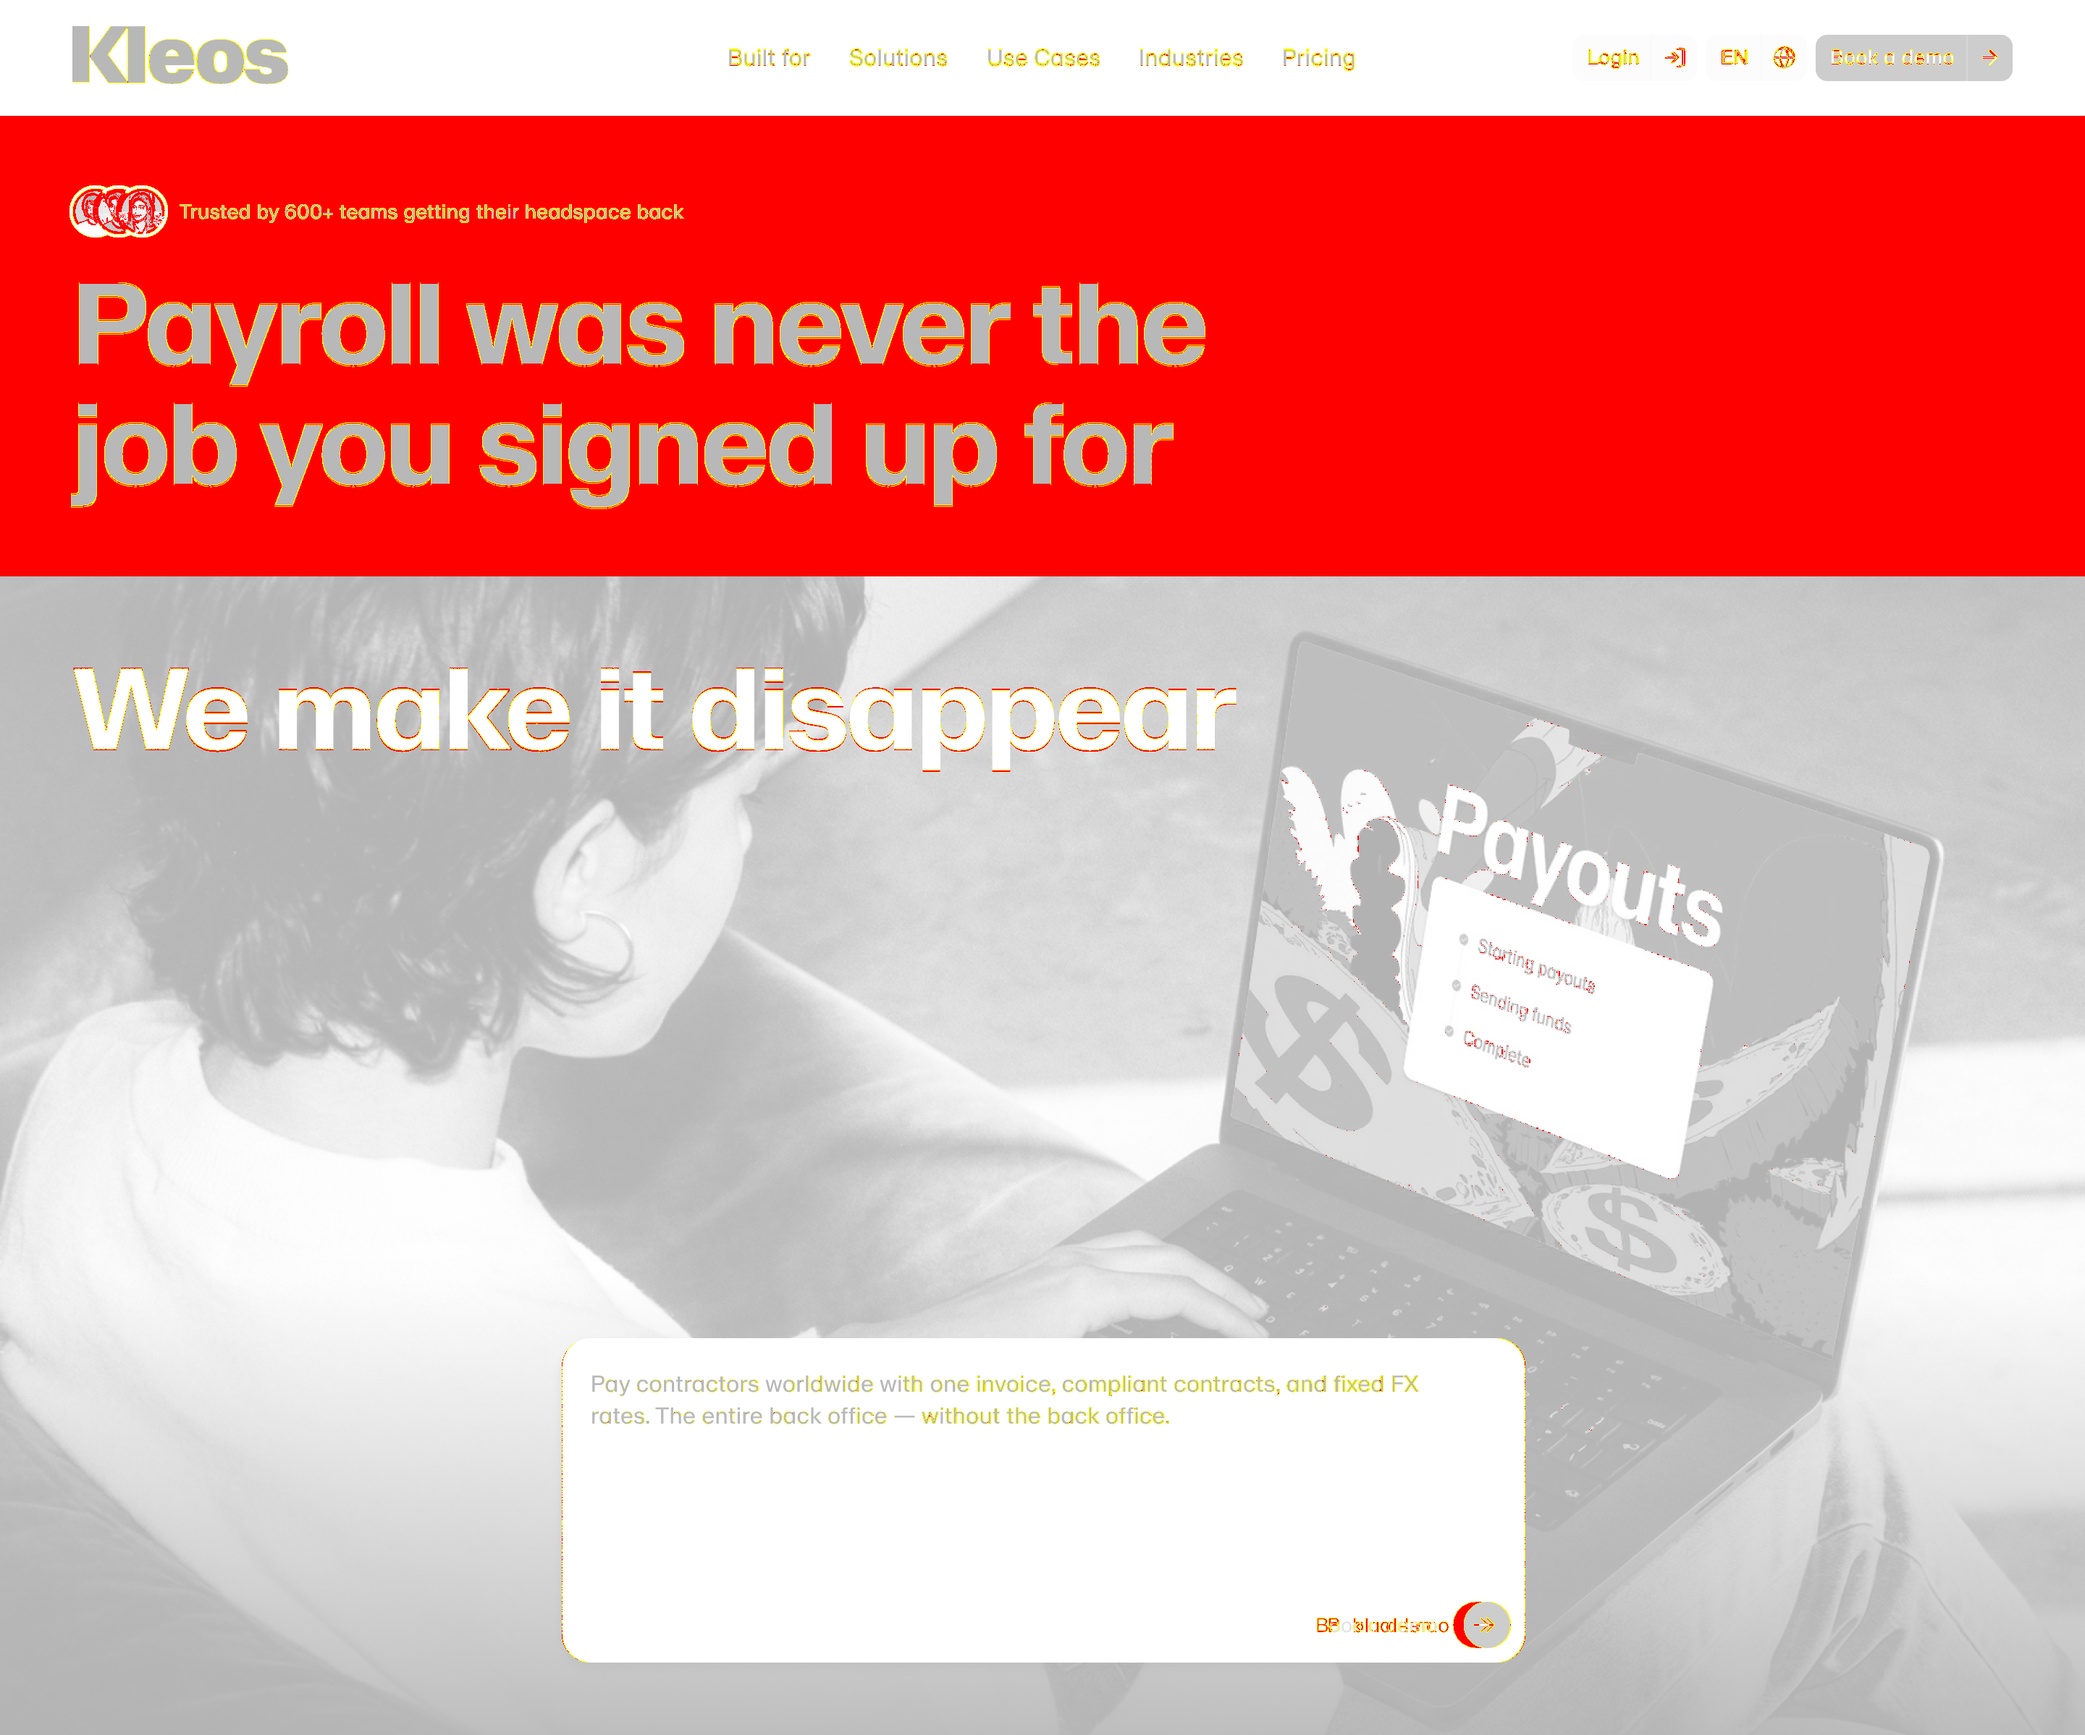
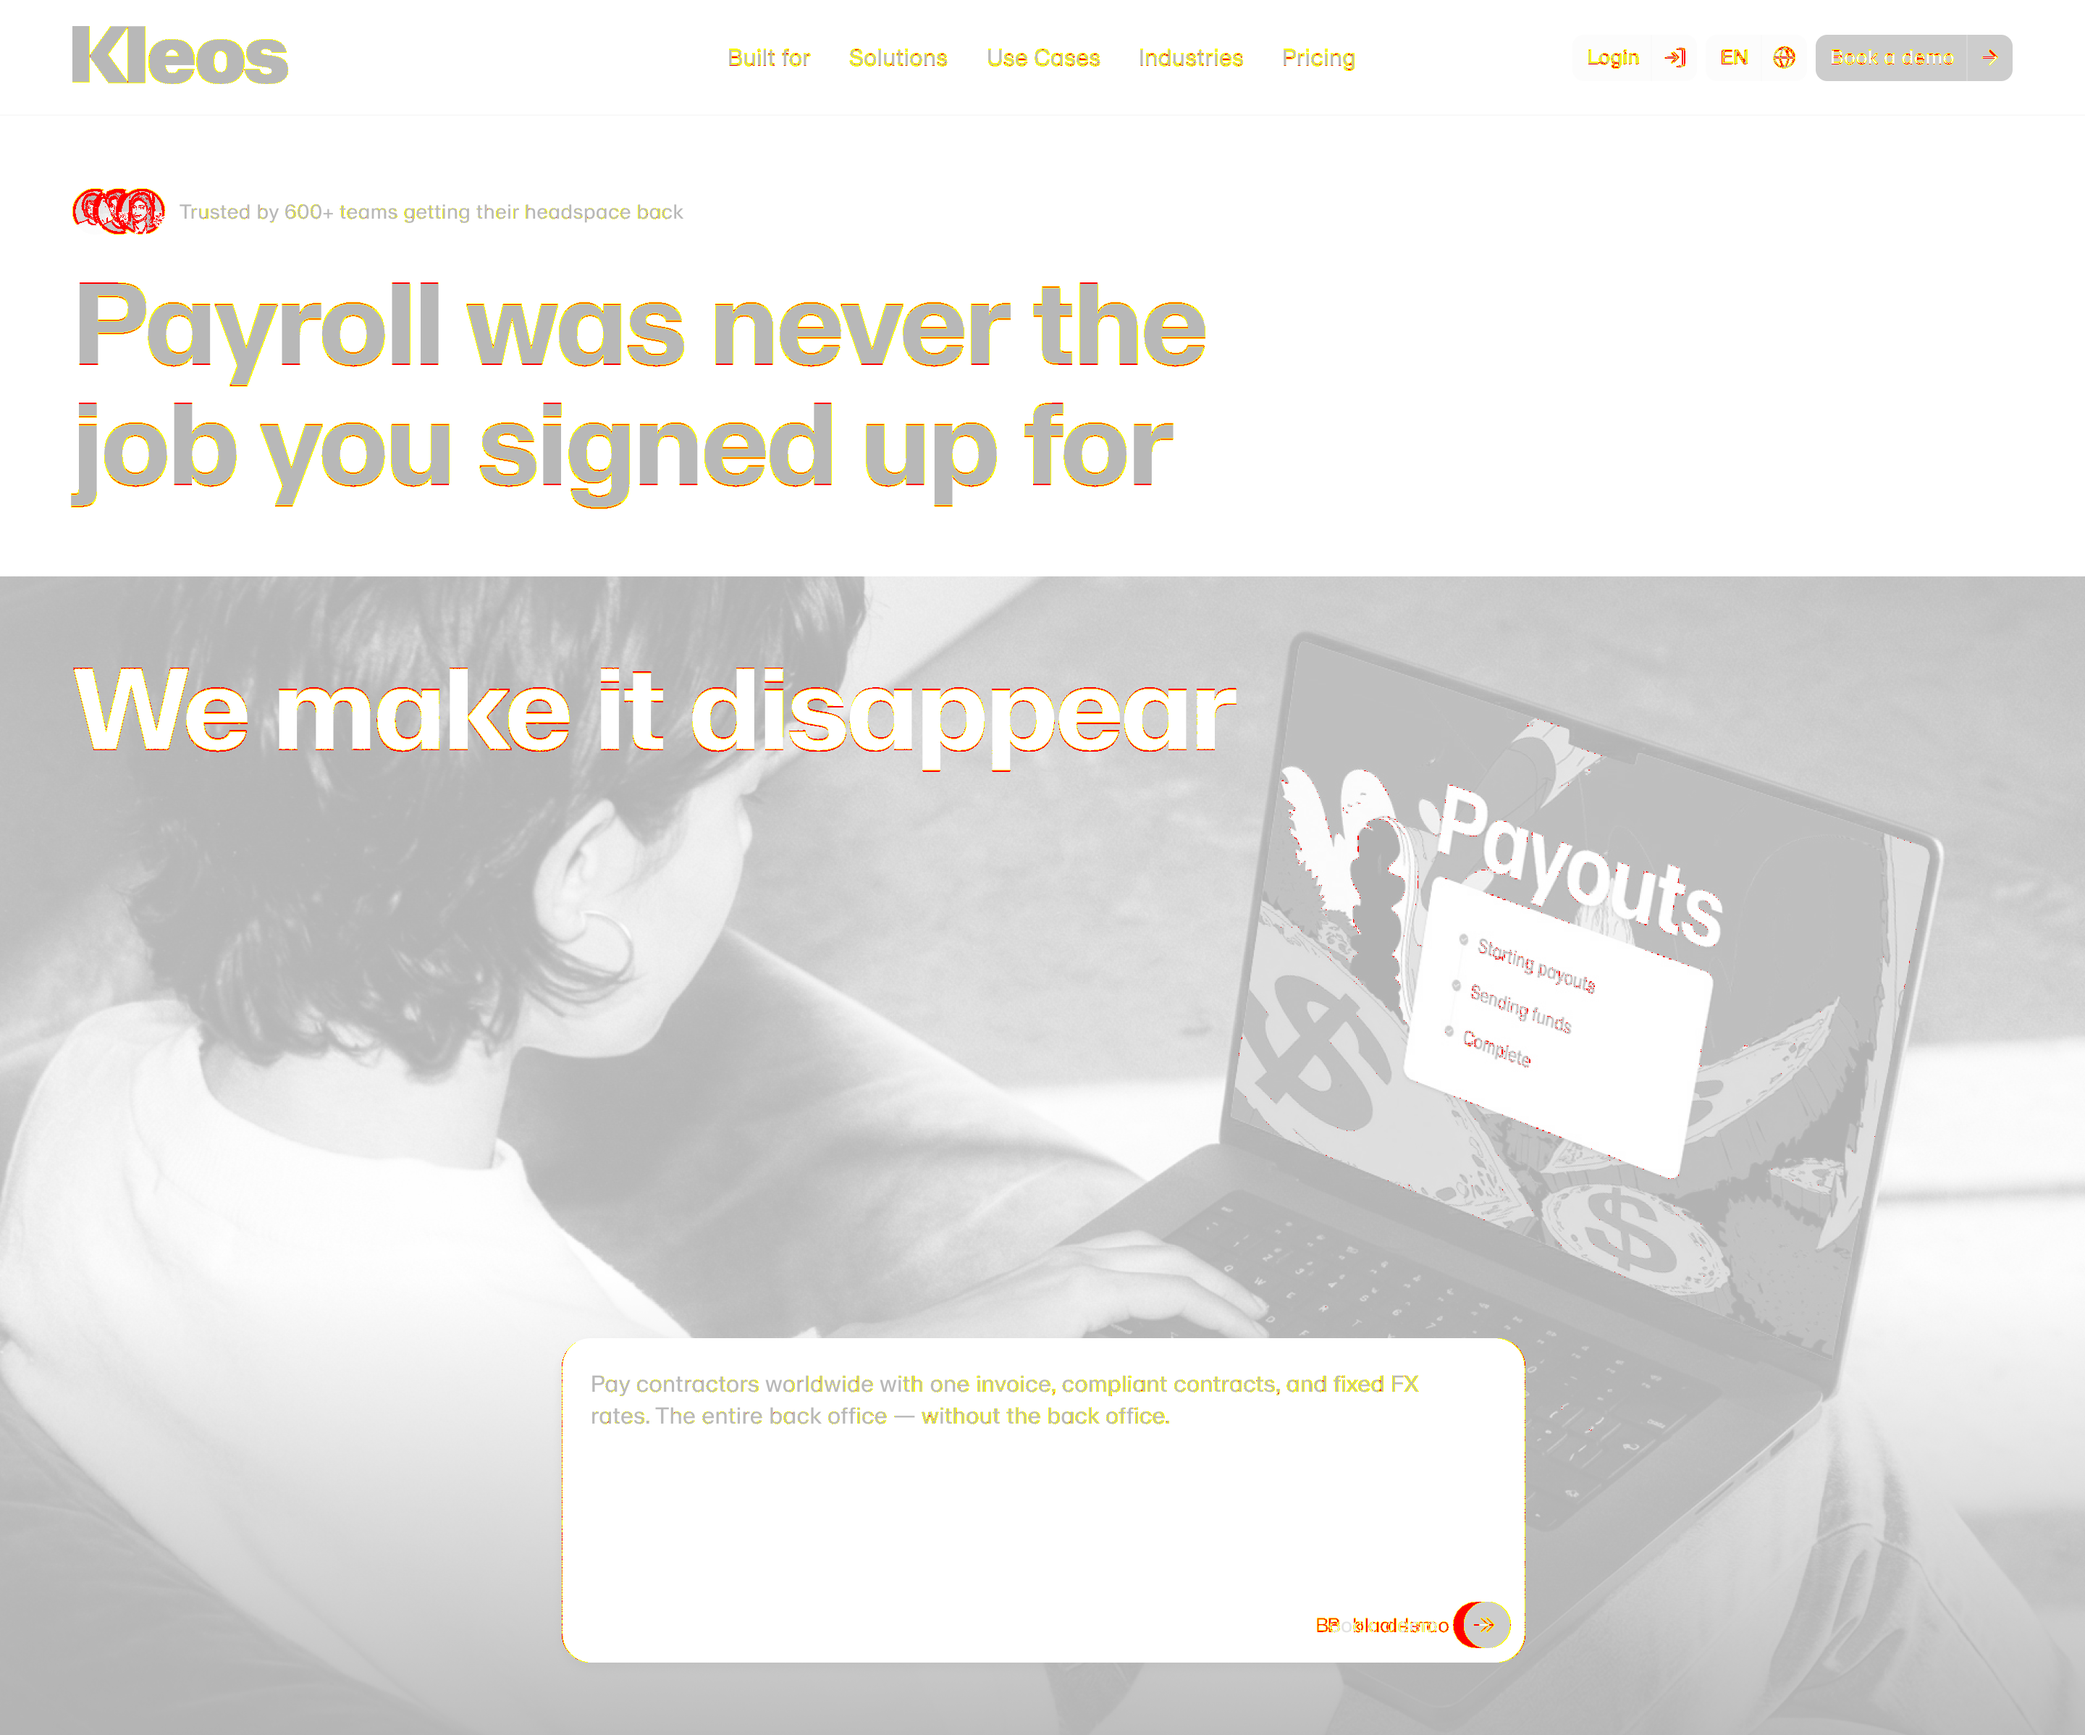
verify: skip unmounted sections + hero passes 0.30% after composite fix
- node-map.json: 10 unmounted sections flagged skip:true with reason
- verify-pixel-perfect.mjs skip-short-circuit already in place (prior commit)
- hero: 24.20% → 0.30% ✅ after Figma PNG composite-on-white patch
- metrics-band/pain-scenarios: now real signal (33% / 30%), no longer transparency noise
- LEARNINGS: 2 entries on Figma transparency + "black container" misread

Changed region(s): [[0.0, 0.0618, 1.0, 0.3397]]

diff --git a/.project-journal/STATE.md b/.project-journal/STATE.md
@@ -1,7 +1,7 @@
 # Stape Website — Current State
 
 **Last updated:** 2026-04-14
-**Status:** v2 pixel-perfect rebuild in progress (3/13 sections extracted, 0/13 verification-pass)
+**Status:** v2 pixel-perfect rebuild in progress (3/13 sections extracted, 1/3 mounted passes — hero ✅)
 **Client/Context:** Stape (global work infrastructure / contractor payroll platform). Website redesign.
 
 ## Current Focus — v2 pixel-perfect rebuild
@@ -21,18 +21,21 @@ Full rebuild of the v2 homepage from Figma (`DycBk4R0tH1h3XH1F2xifX`, node 310:8
 Extracted + converted: hero (310:1660), metrics-band (310:841), pain-scenarios (310:872).
 Remaining 10: tuesday-comparison, how-it-works, legal-architecture, testimonial, comparison-table, role-selector, cost-comparison, faq, final-cta, footer.
 
-### Verification (2026-04-14 run)
-- **hero:** 24.20% diff ❌ (bbox-crop mode, root is `contents`)
-- **metrics-band:** 36.55% diff ❌ (bbox-crop mode)
-- **pain-scenarios:** 30.12% diff ❌ (selector mode, has own box)
-- 10 remaining sections: 💥 bitblt out-of-image (expected — not yet mounted in page.tsx)
+### Verification (2026-04-14 second run — after verifier patches)
+- **hero:** 0.30% diff ✅ (bbox-crop)
+- **metrics-band:** 33.05% diff ❌ (bbox-crop)
+- **pain-scenarios:** 30.12% diff ❌ (selector)
+- 10 remaining: ⏭ skipped (`skip:true` in node-map.json with reason "not yet mounted in app/v2/page.tsx") — verifier now short-circuits instead of crashing with `bitblt reading outside image`.
 
-All 3 above threshold. Artifacts: `web-output/stape-v2/sections/<name>/{figma,preview,diff}.png`.
+### Verifier changes this session
+1. `verify-pixel-perfect.mjs` composites Figma PNG onto white before pixelmatch. Figma `/v1/images` renders GROUP/FRAME with transparent alpha outside drawn content; preview is opaque white → false diff proportional to empty space. Hero fake-red dropped 24.20% → 0.30% with this single change.
+2. `verify-pixel-perfect.mjs` honours `section.skip` in node-map.json — prints `⏭ skipped`, counts as pass, no image-crop attempt.
+3. `web-output/stape-v2/node-map.json` — 10 unmounted sections flagged `skip:true` with `skipReason`.
 
 ## Open Issues (v2)
-1. **3/3 mounted sections fail 3% threshold.** Root cause not yet diagnosed — likely font-loading (ABC Schengen), asset scaling (Figma @2x vs preview dpr=2), or remaining Tailwind class mismatches. Next session: open the diff.png per section, identify which pixel regions diverge, trace back to source classes.
-2. **Hero root uses `display:contents`** — preview element screenshot impossible, bbox-crop fallback works but is less precise. Consider wrapping generated `contents` roots in `relative w-full h-[Npx]` in the pipeline.
-3. **10 unextracted sections** — need `get_design_context` pass each (Gate 1).
+1. **metrics-band 33%, pain-scenarios 30%** — now real signal (not transparency). Not yet diagnosed. Next session: inspect diff.png per section for localized red clusters, pattern likely same class as earlier hero mis-diagnosis (verify assumptions via raw alpha first).
+2. **Hero root uses `display:contents`** — preview element screenshot impossible, bbox-crop fallback works. Consider wrapping generated `contents` roots in `relative w-full h-[Npx]` in the pipeline.
+3. **10 unmounted sections** — skipped in verifier. Keep skipped until each is mounted AND verified <10% one-by-one to avoid accumulating undebuggable debt.
 
 ## Other (parked)
 - About Us v2 content draft (2026-04-08). Subline still too long (5 lines), pending client review on values / services sections.

diff --git a/.project-journal/LEARNINGS.md b/.project-journal/LEARNINGS.md
@@ -20,6 +20,18 @@
 - **Fix:** `app/v2/page.tsx` is now flow-stack — each section wrapped in a `relative` div sized to the Figma `bbox.height`. No top-[Npx] at page level.
 - **Rule:** Sections stack via flow. Absolute coords are a section-internal affair only. If a generator emits a child with `top-[1298px]` (homepage Y instead of section-local), that's a generator bug — patch the generator, don't patch page.tsx.
 
+### [LEARN] Figma image export is transparent outside drawn content — composite before diff
+- **What happened:** verify-pixel-perfect reported hero=24.2%, metrics-band=36.5%, pain-scenarios=30.1%. diff.png showed what looked like a solid "black/red upper container" on hero — I initially hypothesized a missing dark wrapper in Hero.tsx. Checked source.raw.jsx, figma-process-section.mjs, and Figma REST tree — none of them had a dark wrapper. Figma's `section/hero` GROUP has `backgroundColor: rgba(0,0,0,0)` (transparent). Pixel sampling of `figma.png` showed `(0,0,0,0)` in empty zones.
+- **Why:** Figma `/v1/images` endpoint renders only the node's own painted pixels. A GROUP/FRAME with no fill emits alpha=0 outside drawn content. The page-level white background (homepage frame `310:840` has white fill) never makes it into the per-section PNG. Preview screenshot is opaque white everywhere. pixelmatch sees `(0,0,0,0)` vs `(255,255,255,255)` as full mismatch → false positives proportional to empty space in the section.
+- **Fix:** `scripts/verify-pixel-perfect.mjs` now composites figma.png onto white (`WHITE.r/g/b * (1-alpha) + pixel * alpha`, alpha→255) before pixelmatch. Hero diff dropped 24.20% → 0.30% ✅ one commit. Metrics-band and pain-scenarios diffs are now real signal (33% / 30%) — not transparency noise.
+- **Rule:** Any Figma→web diff pipeline must composite the Figma export onto the page-frame's own background before pixelmatch. For pipelines across files, read the homepage/root frame's fills from Figma REST and use that color; white is a pragmatic default when homepage is known white.
+
+### [ERROR] "Black container" in diff.png was transparency — misread as design element
+- **What happened:** Looking at `sections/hero/figma.png`, I described "верхняя зона на чёрном фоне, H1 белый" and built a hypothesis around a missing dark wrapper in generated Hero.tsx. Pursued that root for several steps before checking the actual pixel alpha.
+- **Why:** PNG viewers (including the chat image renderer) fill alpha=0 with black. A transparent region looks identical to a black-filled region visually. I reasoned about layout from the rendered image, not from RGBA values.
+- **Fix:** Before any conclusion about Figma-vs-preview layout from a diff image, sample raw alpha channel of figma.png in suspect regions. If `alpha=0`, you're looking at transparency, not design. Only then look at RGB.
+- **Rule:** diff.png and figma.png are RGBA. Never infer design intent from a screenshot viewer's rendering of transparency. Python `PIL.Image.open(path).load()[x,y]` or equivalent is cheap — run it before posting a diagnosis.
+
 ### [LEARN] `display:contents` roots can't be Puppeteer-screenshotted
 - **What happened:** verify-pixel-perfect first run crashed on hero with "Node is either not visible or not an HTMLElement" — because Figma's `contents` wrapper has no box.
 - **Fix:** Gate 3 now probes computed style first and falls back to `page.screenshot({fullPage:true})` + bbox crop (from node-map.json). Less precise (includes surrounding pixels) but works.

diff --git a/web-output/stape-v2/verification.md b/web-output/stape-v2/verification.md
@@ -1,29 +1,35 @@
 # Pixel-Perfect Verification
 
-**Generated:** 2026-04-14T14:50:38.940Z
-**Base URL:** http://localhost:3847/stape-website/v2
+**Generated:** 2026-04-14T15:46:19.564Z
+**Base URL:** http://localhost:3000/stape-website/v2
 **Threshold:** 3.0% pixel diff
 **Scope:** all sections
 
 | Section | nodeId | Diff | Mode | Status |
 |---------|--------|------|------|--------|
-| hero | `310:1660` | 24.20% | bbox-crop | ❌ fail |
-| metrics-band | `310:841` | 36.55% | bbox-crop | ❌ fail |
+| hero | `310:1660` | 0.30% | bbox-crop | ✅ pass |
+| metrics-band | `310:841` | 33.05% | bbox-crop | ❌ fail |
 | pain-scenarios | `310:872` | 30.12% | selector | ❌ fail |
-| tuesday-comparison | `2011:740` | — | — | 💥 bitblt reading outside image |
-| how-it-works | `310:973` | — | — | 💥 bitblt reading outside image |
-| legal-architecture | `310:1204` | — | — | 💥 bitblt reading outside image |
-| testimonial | `310:1028` | — | — | 💥 bitblt reading outside image |
-| comparison-table | `310:1343` | — | — | 💥 bitblt reading outside image |
-| role-selector | `310:1282` | — | — | 💥 bitblt reading outside image |
-| cost-comparison | `2011:741` | — | — | 💥 bitblt reading outside image |
-| faq | `310:1452` | — | — | 💥 bitblt reading outside image |
-| final-cta | `310:1325` | — | — | 💥 bitblt reading outside image |
-| footer | `310:1483` | — | — | 💥 bitblt reading outside image |
+| tuesday-comparison | `2011:740` | — | — | ⏭ skipped |
+| how-it-works | `310:973` | — | — | ⏭ skipped |
+| legal-architecture | `310:1204` | — | — | ⏭ skipped |
+| testimonial | `310:1028` | — | — | ⏭ skipped |
+| comparison-table | `310:1343` | — | — | ⏭ skipped |
+| role-selector | `310:1282` | — | — | ⏭ skipped |
+| cost-comparison | `2011:741` | — | — | ⏭ skipped |
+| faq | `310:1452` | — | — | ⏭ skipped |
+| final-cta | `310:1325` | — | — | ⏭ skipped |
+| footer | `310:1483` | — | — | ⏭ skipped |
 
 **Artifacts per section:** `web-output/stape-v2/sections/<name>/{figma,preview,diff}.png`
 
 ---
+
+## Prior runs
+
+## Prior runs
+
+## Prior runs
 
 ## Prior runs
 

diff --git a/.project-journal/session-log.md b/.project-journal/session-log.md
@@ -25,3 +25,6 @@
 [2026-04-14 16:46] Edit → scripts/verify-pixel-perfect.mjs
 [2026-04-14 16:54] Edit → .gitignore
 [2026-04-14 16:54] Edit → .gitignore
+[2026-04-14 17:15] Edit → scripts/verify-pixel-perfect.mjs
+[2026-04-14 17:15] Edit → scripts/verify-pixel-perfect.mjs
+[2026-04-14 17:39] Edit → scripts/verify-pixel-perfect.mjs
